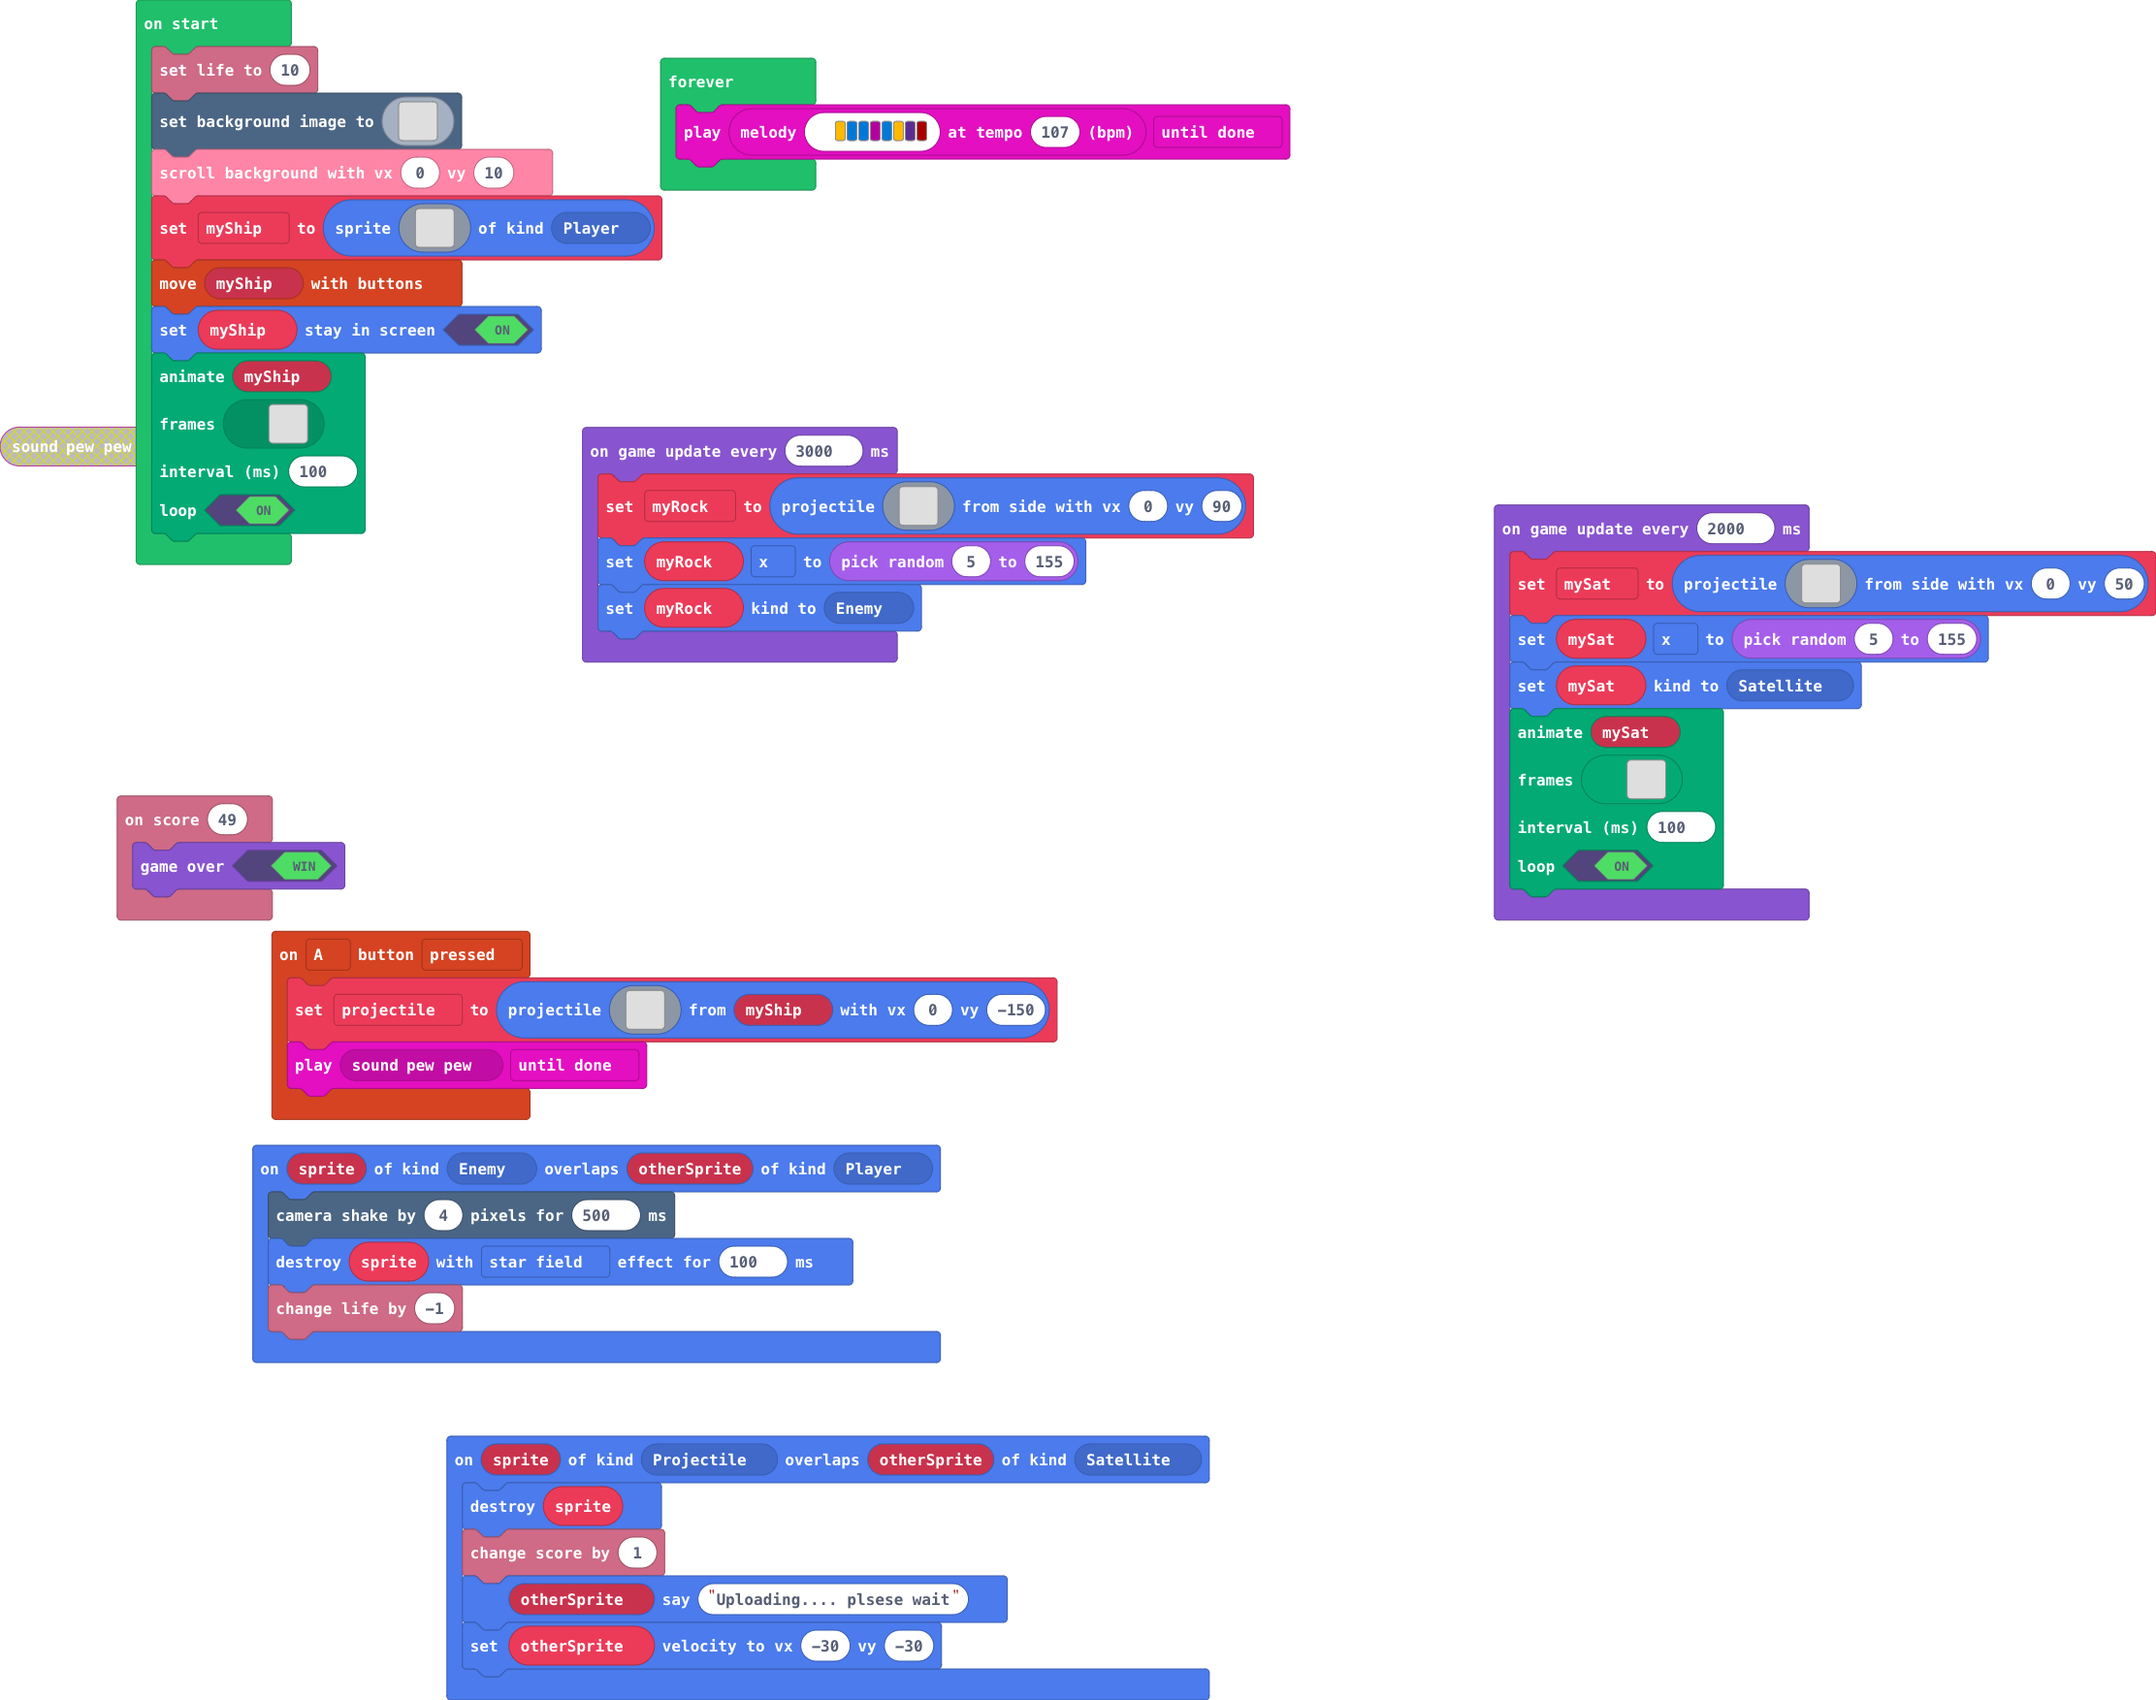
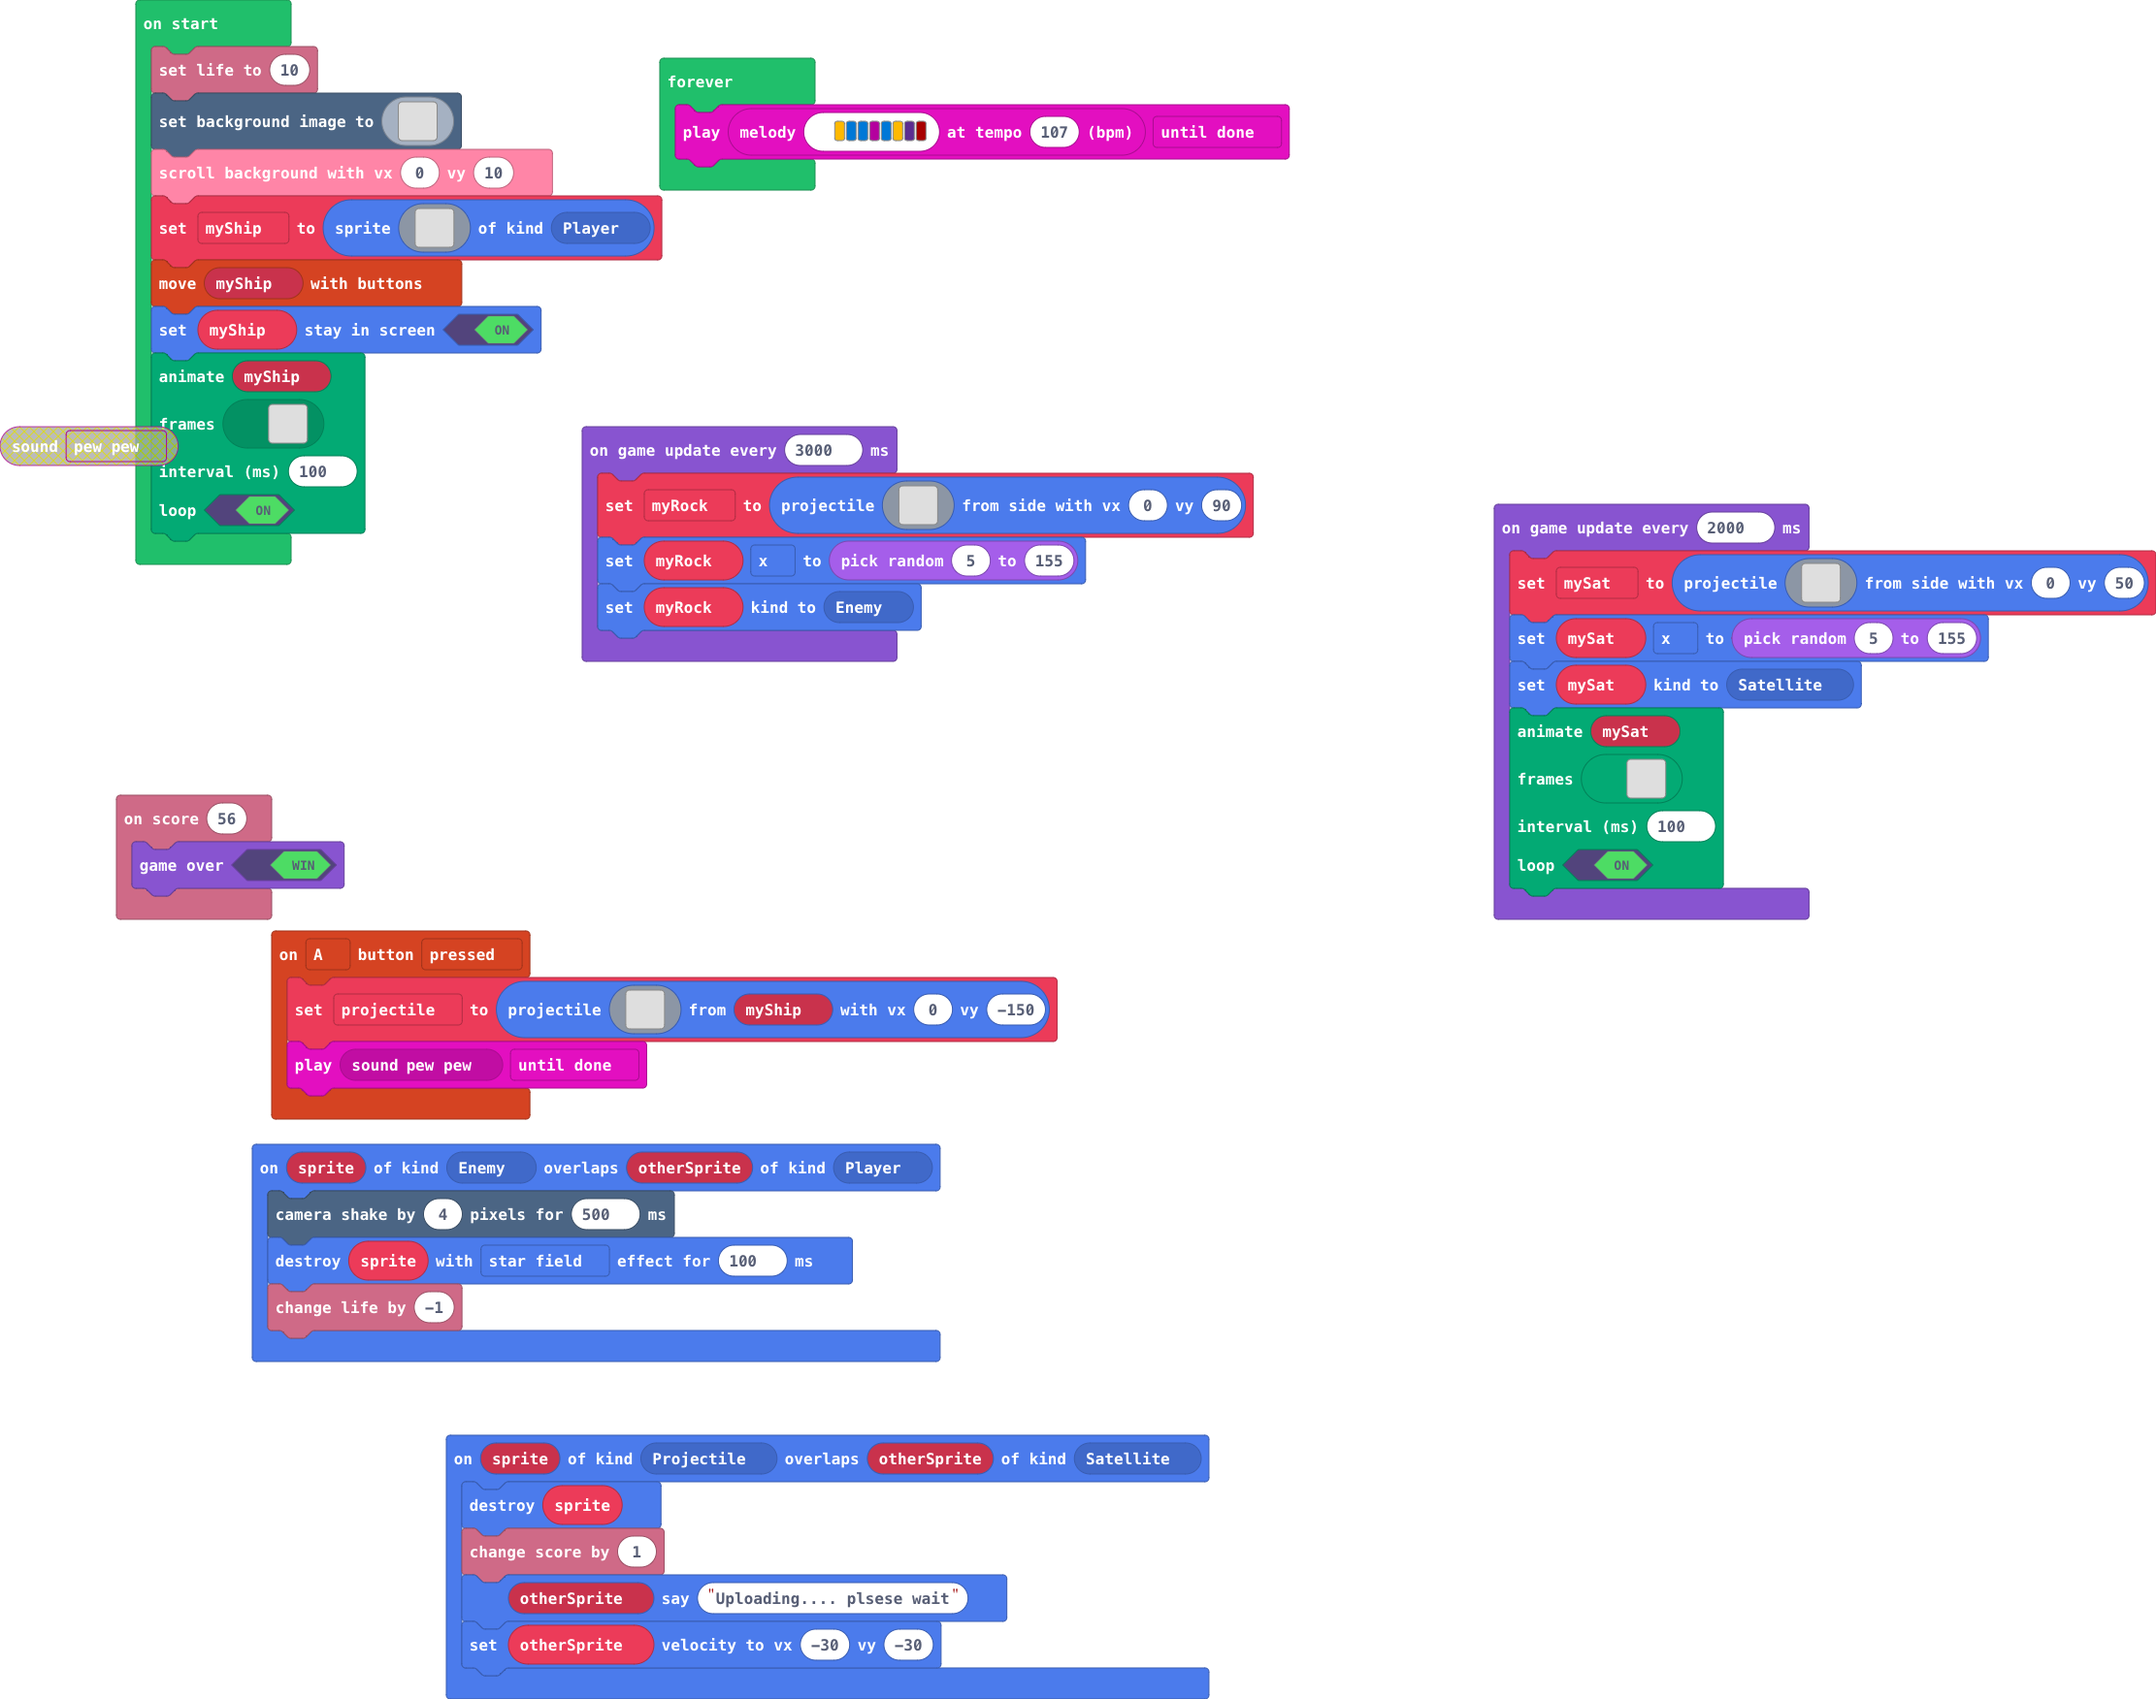
Update main.blocks, main.ts

diff --git a/main.ts b/main.ts
@@ -4,9 +4,6 @@ sprites.onOverlap(SpriteKind.Projectile, SpriteKind.Satellite, function (sprite,
     otherSprite.sayText("Uploading.... plsese wait")
     otherSprite.setVelocity(-30, -30)
 })
-info.onScore(49, function () {
-    game.gameOver(true)
-})
 controller.A.onEvent(ControllerButtonEvent.Pressed, function () {
     projectile = sprites.createProjectileFromSprite(img`
         . 1 . 
@@ -28,6 +25,9 @@ sprites.onOverlap(SpriteKind.Enemy, SpriteKind.Player, function (sprite, otherSp
     scene.cameraShake(4, 500)
     sprite.destroy(effects.starField, 100)
     info.changeLifeBy(-1)
+})
+info.onScore(56, function () {
+    game.gameOver(true)
 })
 let myRock: Sprite = null
 let mySat: Sprite = null
